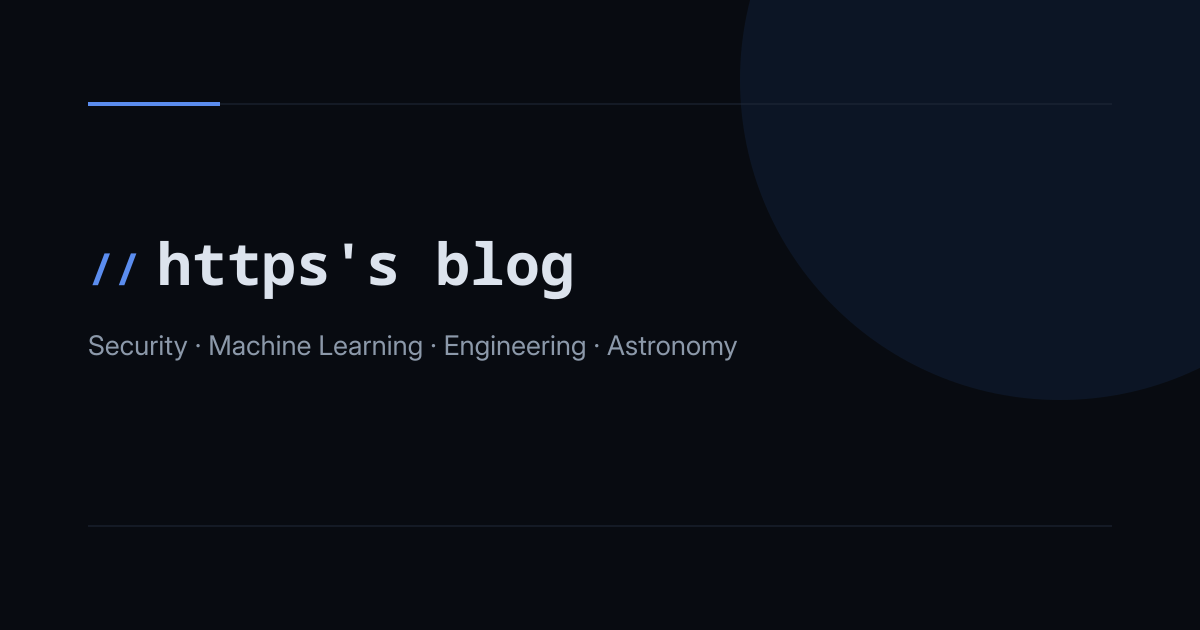
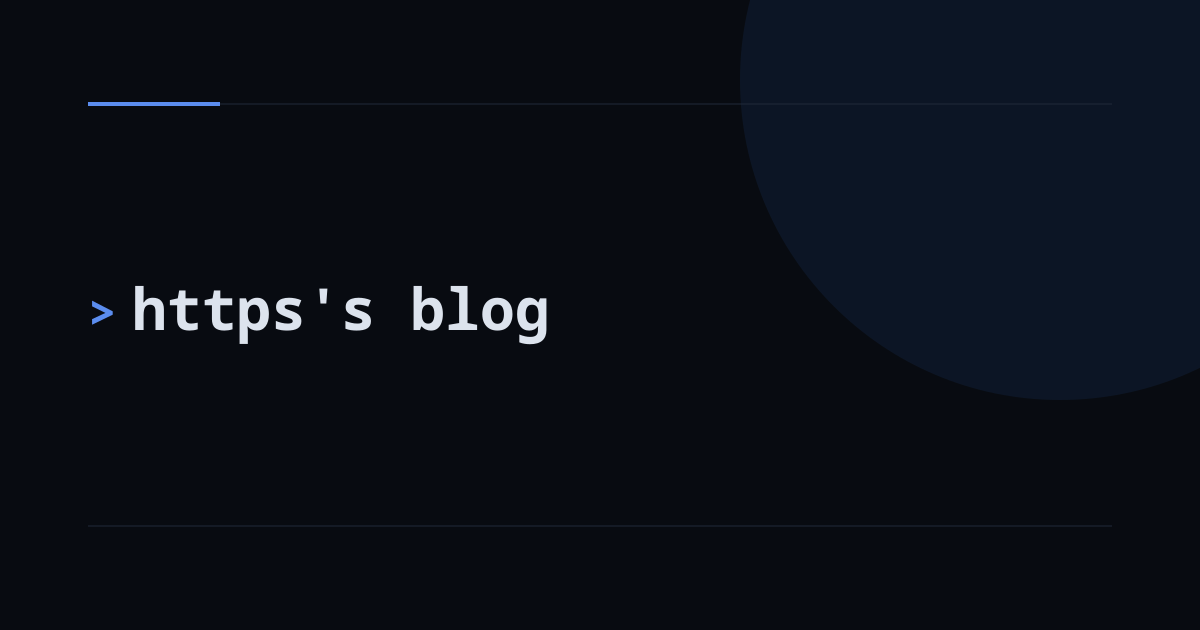
card

Changed region(s): [[0.0617, 0.3619, 0.6167, 0.573]]

diff --git a/_includes/head.html b/_includes/head.html
@@ -14,9 +14,9 @@
   <meta name="theme-color" content="#080b11">
 
   {% unless page.image %}
-    <meta property="og:image" content="{{ "/assets/social-card.png" | absolute_url }}">
+    <meta property="og:image" content="{{ "/assets/social-card.png" | absolute_url }}?v=prompt">
     <meta name="twitter:card" content="summary_large_image">
-    <meta name="twitter:image" content="{{ "/assets/social-card.png" | absolute_url }}">
+    <meta name="twitter:image" content="{{ "/assets/social-card.png" | absolute_url }}?v=prompt">
   {% endunless %}
 
   {% feed_meta %}
